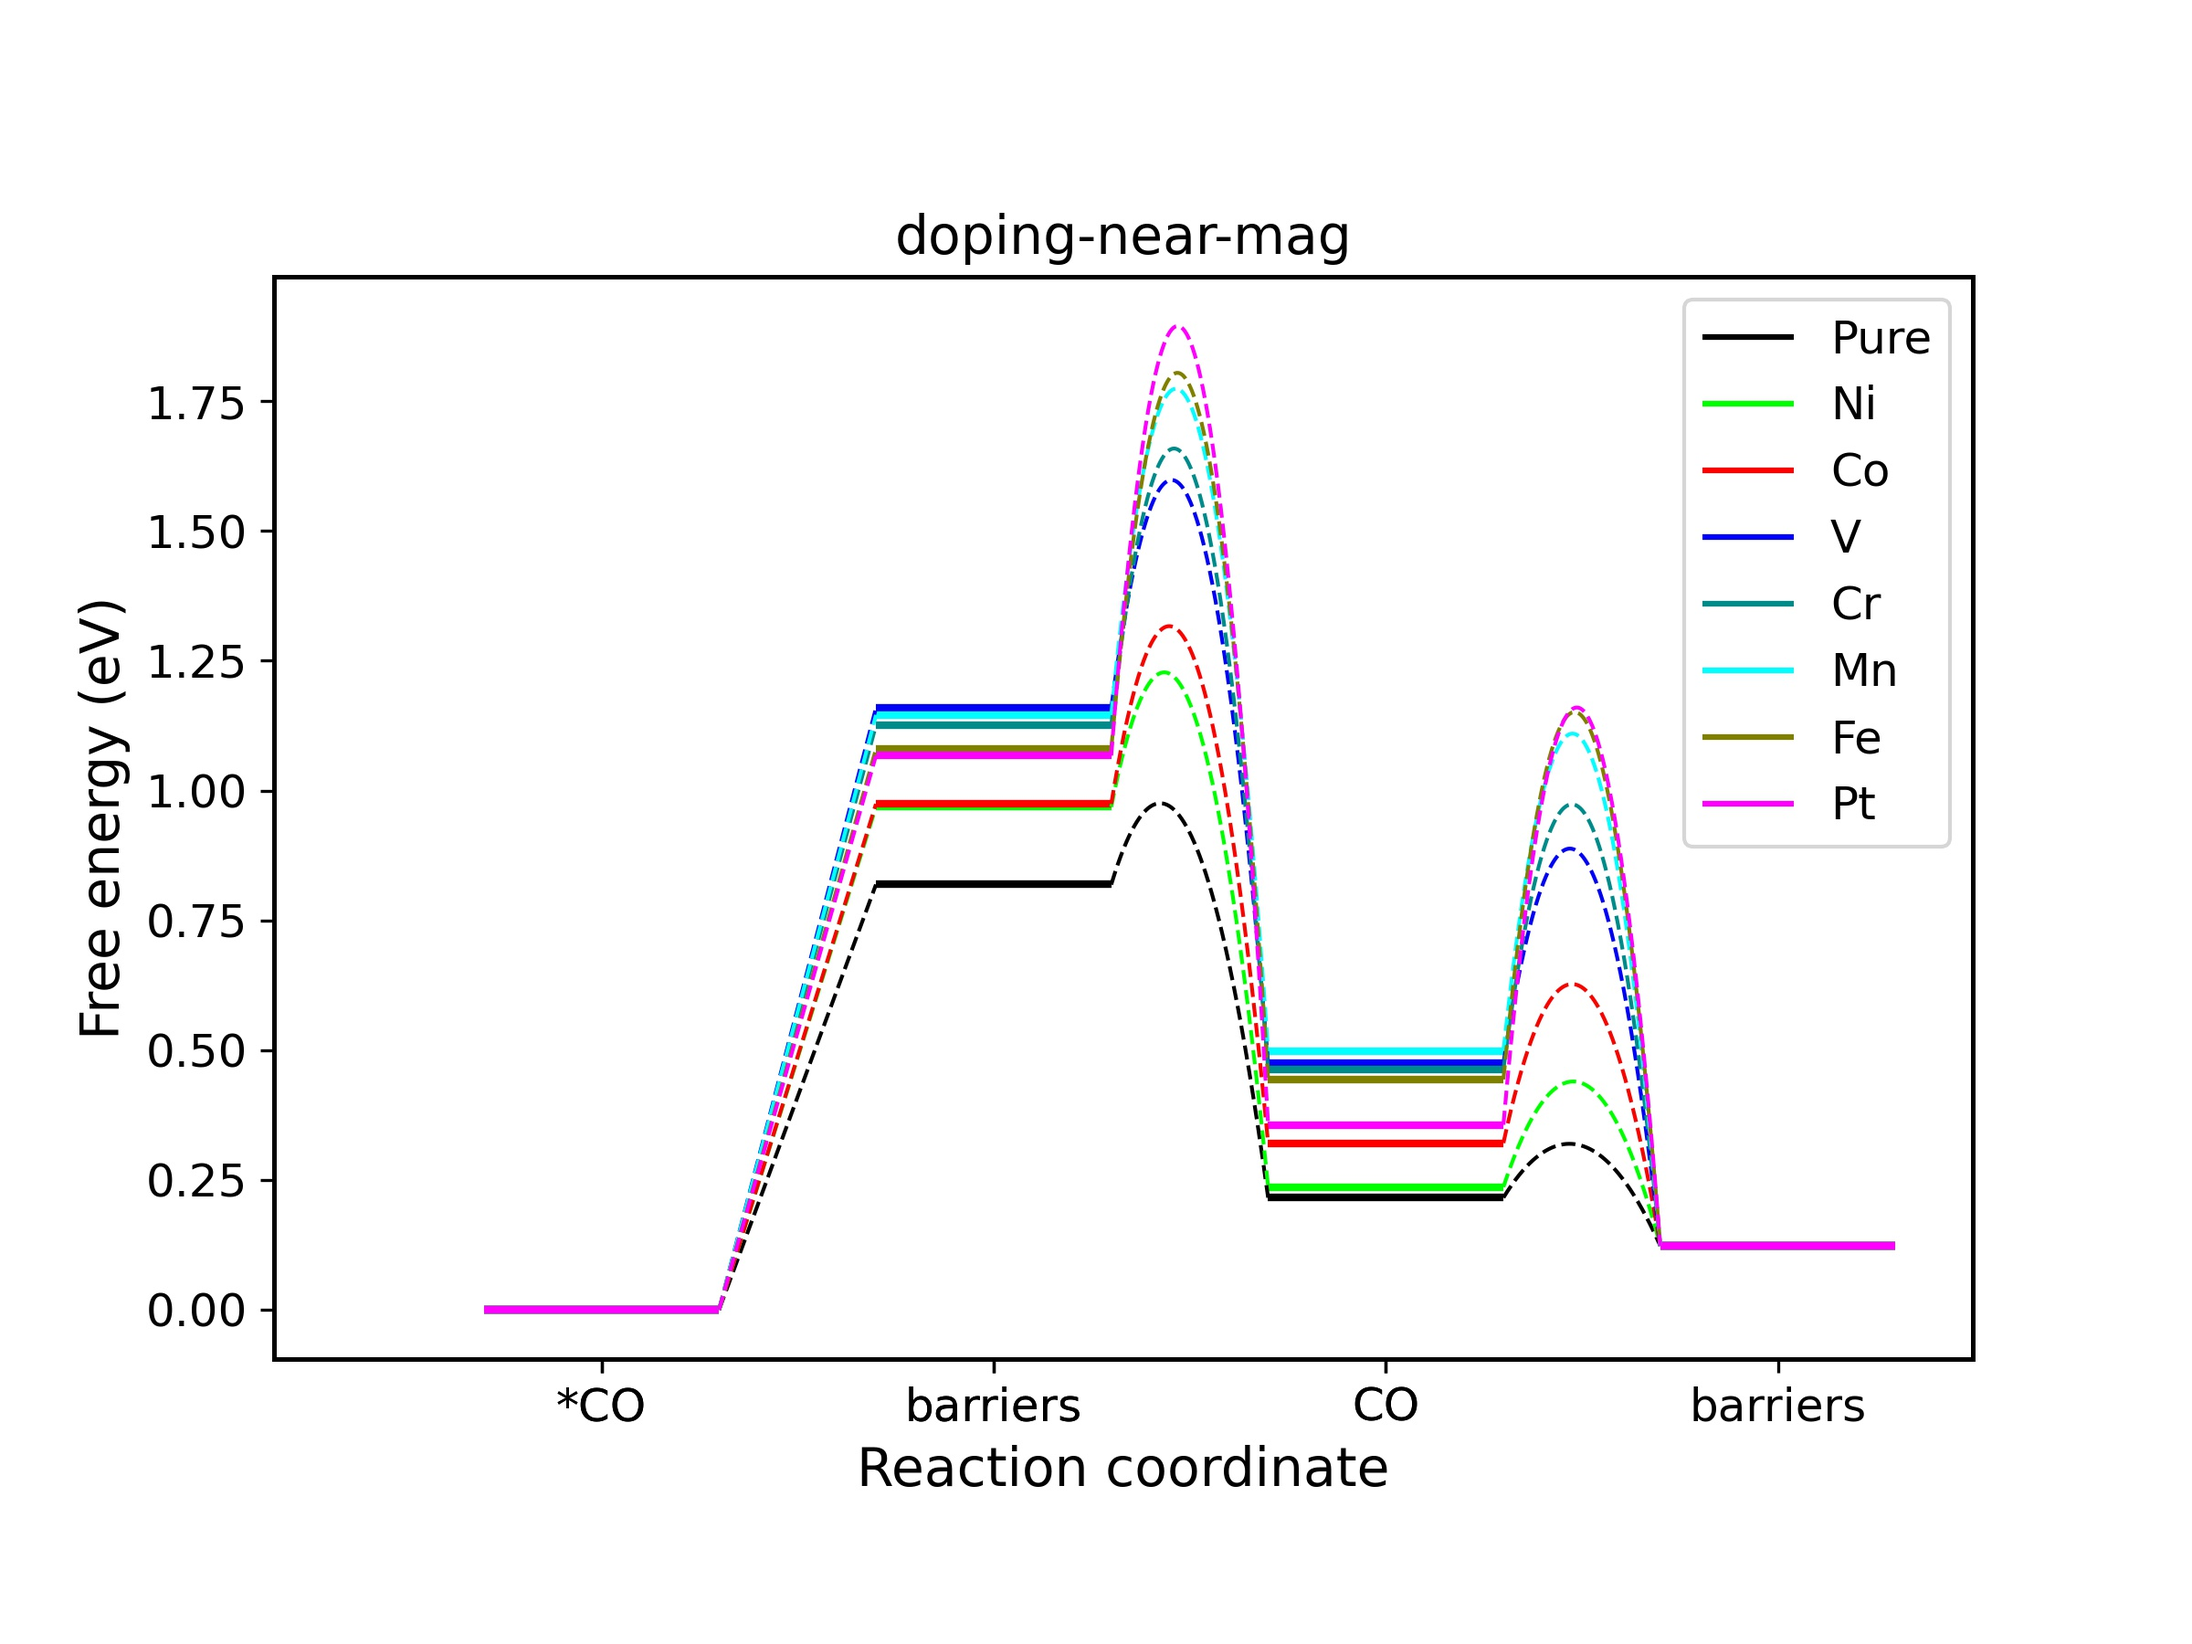
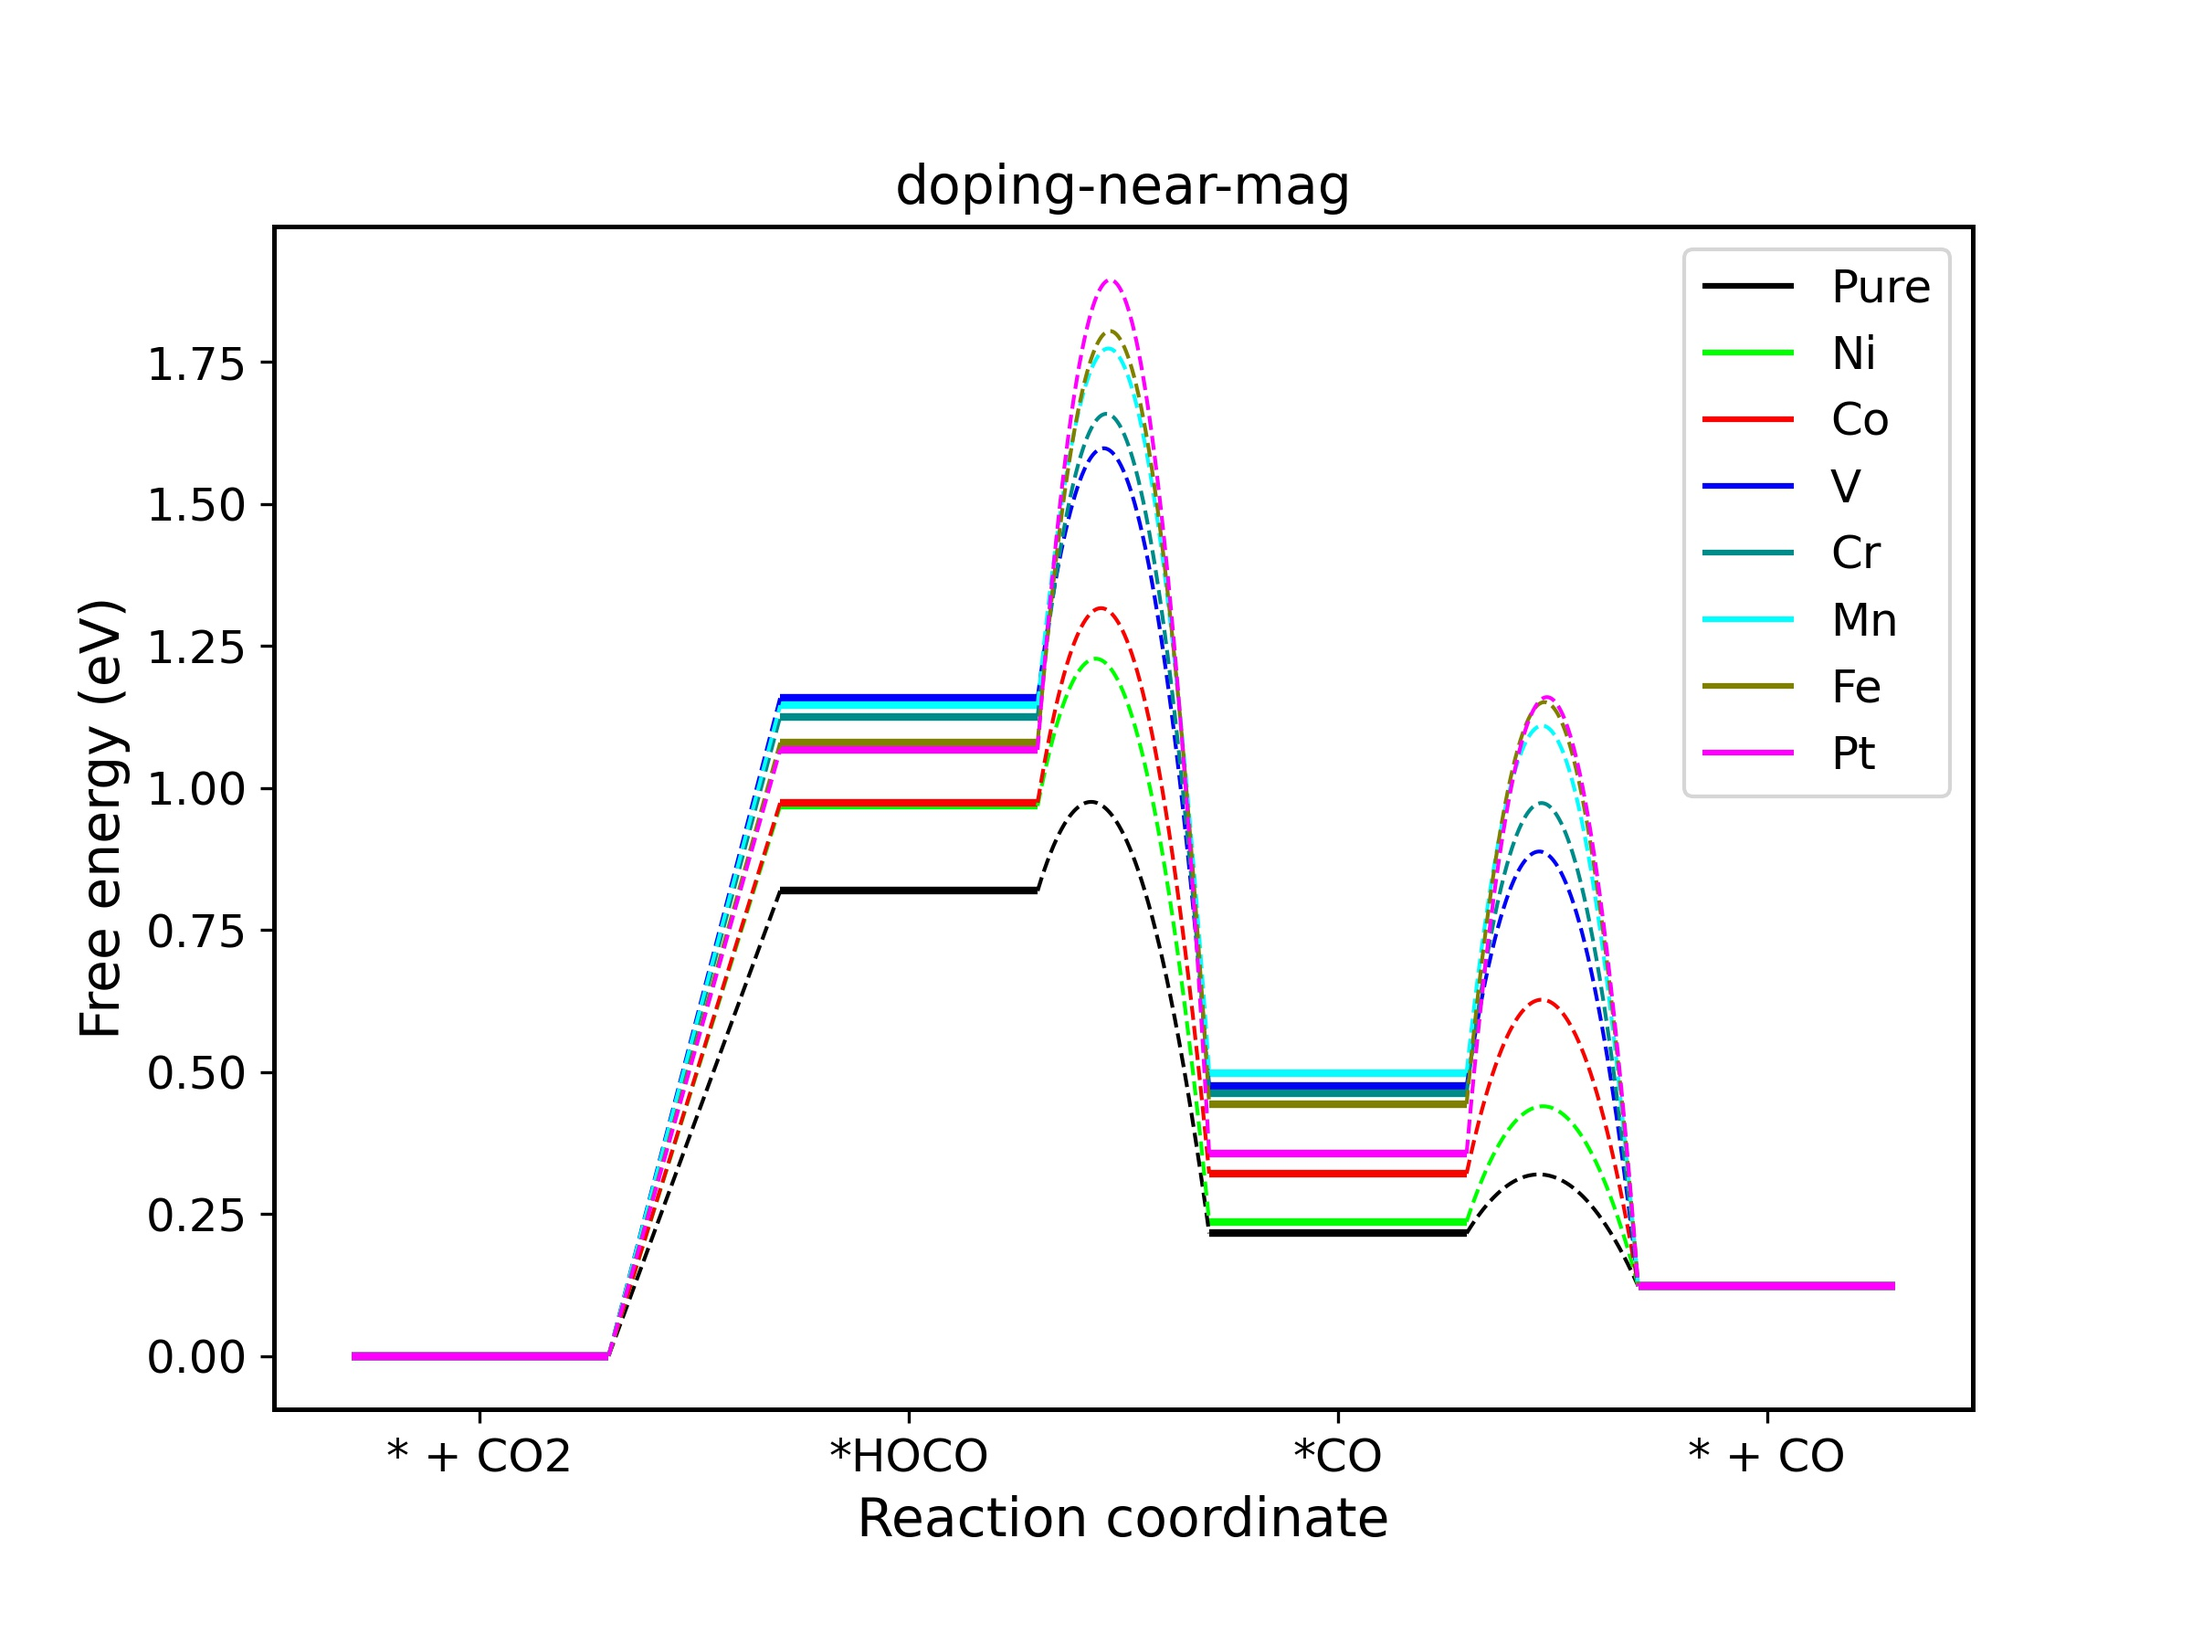
updated xticks

diff --git a/plotpackage/lib/CO2RRWithTS.py b/plotpackage/lib/CO2RRWithTS.py
@@ -18,35 +18,36 @@ class CO2RRFEDplot:
         self.X = X_
         self.figName = figname
         
-    def plot(self, title=''):
+        self.axFree = None
+        self.figFree = None
+        
+    def plot(self, title='', ax: plt.Axes = None):
         #self.stepsNames, self.observationName, X = read_excel(filename, sheet, min_col, max_col, min_row, max_row) #load excel data
         #self.stepsNames, self.observationName, X = read_csv(filename, , min_col, max_col) #load csv data
         print('auto loaded stepsName: ', self.stepsNames)
         print('auto loaded obserName: ', self.observationName)
         print('auto loaded data: \n', self.X)
         
+        delNames = []
+        for i in range(int(len(self.stepsNames))):
+            if i % 2 != 0:
+                delNames.append(self.stepsNames[i])
+        realSteps = list(set(self.stepsNames).difference(set(delNames)))
+        
         colorList = ['k', 'lime', 'r', 'b', 'darkcyan', 'cyan', 'olive', 'magenta', 'pink', 'gray', 'orange', 'purple', 'g']
         #colorList = ['gray', 'brown', 'orange', 'olive', 'green', 'cyan', 'blue', 'purple', 'pink', 'red']
         #colorList = ['k', 'g', 'r', 'b', 'c', 'm', 'y', 'brown', 'pink', 'gray', 'orange', 'purple', 'olive']
-        #self.stepsNames = ['* + CO2', '*HOCO', '*CO', '* + CO']  #reload step name for CO2RR
-        #self.stepsNames = ['* + $H^+$', '*H', '* + 1/2$H_2$',]  #reload step name for HER
+        realSteps = ['* + CO2', '*HOCO', '*CO', '* + CO']  #reload step name for CO2RR
+        #realSteps = ['* + $H^+$', '*H', '* + 1/2$H_2$',]  #reload step name for HER
         #self.observationName = ["Pure", "Ni", "Co", "V", "Cr", "Mn", "Fe", "Pt"]  #reload specis name
-        
-        # delNames = []
-        # for i in range(int(len(self.stepsNames))):
-        #     if i % 2 != 0:
-        #         delNames.append(self.stepsNames[i])
-        # xtickslb = list(set(self.stepsNames).difference(set(delNames)))
-        # print(xtickslb)
 
-        print('reload:', self.stepsNames)
+        print('reload:', realSteps)
         print('reload:', self.observationName, '\n')
-        
-        
+         
         diagram = EnergyDiagram()
         count = 0
         for specis in range(len(self.observationName)):
-            for step in range(int((len(self.stepsNames)+1)/2.0)):
+            for step in range(len(realSteps)):
                 count += 1
                 if step == 0:
                     diagram.pos_number = 0
@@ -54,21 +55,25 @@ class CO2RRFEDplot:
                 energy_col = 2 * step        
                 diagram.add_level(self.X[specis][energy_col], color = colorList[specis])
         
-                if count % (int((len(self.stepsNames)+1)/2.0)) != 0:
+                if count % (len(realSteps)) != 0:
                     if self.X[specis][energy_col+1] == 0: #plot general link line if TS energy is equle to 0
                         diagram.add_link(count-1, count, color = colorList[specis])
                     else: #plot ts barrier
                         diagram.add_barrier(start_level_id=count-1, barrier=self.X[specis][energy_col+1]+self.X[specis][energy_col], end_level_id=count, color = colorList[specis]) #add energy TS barriers
-                    
-        figFree = plt.figure(figsize=(8,6), dpi = 300)
-        axFree = figFree.add_subplot(111)
+        
+        if not ax:
+            figFree = plt.figure(figsize=(8,6), dpi = 300)
+            axFree = figFree.add_subplot(111)
+        else:
+            self.axFree = ax
+            self.figFree = ax.figure
                 
         #diagram.add_barrier(start_level_id=1, barrier=1, end_level_id=2) #add energy barriers
-        diagram.plot(xtickslabel = self.stepsNames, stepLens=len(self.stepsNames), ax=axFree) # this is the default ylabel
-        
+        #diagram.plot(xtickslabel = self.stepsNames, stepLens=len(self.stepsNames), ax=axFree) # this is the default ylabel
+        pos = diagram.plot(xtickslabel = realSteps, stepLens=len(realSteps), ax=axFree) # this is the default ylabel
         #add legend
         for specis in range(len(self.observationName)):
-            plt.hlines(0.1, 0.5, 0.5, color=colorList[specis], label= self.observationName[specis])
+            plt.hlines(0.1, pos[0], pos[0], color=colorList[specis], label= self.observationName[specis])
         plt.legend(fontsize=12)
         plt.title(title, fontsize=14)
         

diff --git a/plotpackage/lib/CO2RR.py b/plotpackage/lib/CO2RR.py
@@ -17,7 +17,10 @@ class CO2RRFEDplot:
         self.X = X_
         self.figName = figname
         
-    def plot(self, title=''):
+        self.axFree = None
+        self.figFree = None
+        
+    def plot(self, title='', ax: plt.Axes = None):
         #self.stepsNames, self.observationName, X = read_excel(filename, sheet, min_col, max_col, min_row, max_row) #load excel data
         #self.stepsNames, self.observationName, X = read_csv(filename, , min_col, max_col) #load csv data
         print('auto loaded stepsName: ', self.stepsNames)
@@ -46,16 +49,20 @@ class CO2RRFEDplot:
         
                 if count % (len(self.stepsNames)) != 0:
                     diagram.add_link(count-1, count, color = colorList[specis])
-                
-        figFree = plt.figure(figsize=(8,6), dpi = 300)
-        axFree = figFree.add_subplot(111)
+        
+        if not ax:
+            figFree = plt.figure(figsize=(8,6), dpi = 300)
+            axFree = figFree.add_subplot(111)
+        else:
+            self.axFree = ax
+            self.figFree = ax.figure
                 
         #diagram.add_barrier(start_level_id=1, barrier=1, end_level_id=2) #add energy barriers
-        diagram.plot(xtickslabel = self.stepsNames, stepLens=len(self.stepsNames), ax=axFree) # this is the default ylabel
+        pos = diagram.plot(xtickslabel = self.stepsNames, stepLens=len(self.stepsNames), ax=axFree) # this is the default ylabel
         
         #add legend
         for specis in range(len(self.observationName)):
-            plt.hlines(0.1, 0.5, 0.5, color=colorList[specis], label= self.observationName[specis])
+            plt.hlines(0.1, pos[0], pos[0], color=colorList[specis], label= self.observationName[specis])
         plt.legend(fontsize=12)
         plt.title(title, fontsize=14)
         

diff --git a/plotpackage/lib/freeenergy.py b/plotpackage/lib/freeenergy.py
@@ -210,6 +210,7 @@ class EnergyDiagram:
                               linewidth=i[3],
                               color=i[4])
                 #ax.add_line(line)
+        return pos #return x ticks values
 
 
     def __auto_adjust(self):
